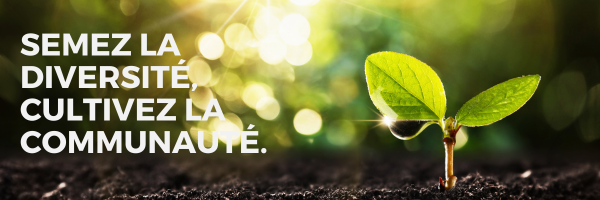
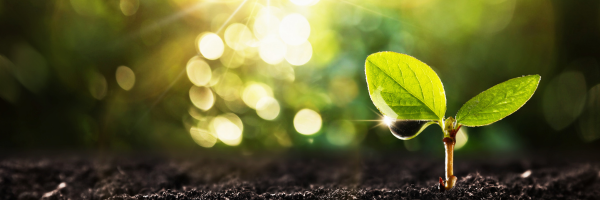
modif home

diff --git a/index.html b/index.html
@@ -13,9 +13,10 @@
 <body>
     
     <header>
+        <!-- NAVBAR -->
         <nav class="navbar navbar-expand-lg back-pale amatic border-bottom border-dark">
             <div class="container-fluid">
-            <a class="navbar-brand" href="#"><img src="/seeds_circle/public/assets/img/logoo.png" alt="logo"></a>
+            <a class="navbar-brand" href="#"><img class="w-50 h-50" src="/seeds_circle/public/assets/img/logoo-removebg.png" alt="logo"></a>
             <button class="navbar-toggler" type="button" data-bs-toggle="collapse" data-bs-target="#navbarNav" aria-controls="navbarNav" aria-expanded="false" aria-label="Toggle navigation">
                 <span class="navbar-toggler-icon"></span>
             </button>
@@ -41,21 +42,149 @@
         </nav>
     </header>
 
-    <main class="container-fluid p-0 m-0">
+    <main class="container-fluid p-0 m-0 back-dark">
+        <!-- BANNIERE -->
         <div class="row me-0">
-            <div class="col-12">
-                <img src="/seeds_circle/public/assets/img/Banner.png" alt="" class="img">
+            <div class="col-12" id="banner">
+                <div class="row text-light">
+                    <div class="col-7">
+                        <div class="montserrat-bold p-1 p-lg-5 col-lg-6">
+                            <h1>SEMEZ LA DIVERSITE, CULTIVEZ LA COMMUNAUTE</h1>
+                        </div>
+                    </div>
+                    <div class="col-5">
+                        <div class="d-flex h-100 align-items-end">
+                            <button class="btn shadow  mb-4 back-green rounded-3 amatic-bold">
+                                nous rejoindre
+                            </button>
+                        </div>
+                    </div>
+                </div>
             </div>
+        <!-- BOUTON VOIR LES PRODUITS     -->
             <div class="col-12 d-flex justify-content-center align-items-center back-pale ">
-                <button class="my-4 btn btn-lg back-green rounded-3 amatic-bold w-50 ">
+                <button class="my-4 btn shadow btn-lg back-green rounded-3 amatic-bold w-50 ">
                     Voir les produits
                 </button>
+            </div>
+        </div>
+        <!-- PLANTES VEDETTES -->
+        <div class="container-fluid">
+            <div class="row">
+                <div class="col-12 text-center">
+                    <h2 class="amatic-bold text-light">Plantes vedettes</h2>
+                </div>
+            </div>
+                <!-- LIGNE BLANCHE -->
+                <hr class="white-line">
+                <!-- LYS -->
+            <div class="row">
+                <div class="col-12 text-center">
+                    <h3 class="montserrat text-light">Lys</h3>
+                </div>
+                <div class="col-12 col-lg-7  text-center">
+                    <img src="./public/assets/img/Lys.jpg" class="rounded-4 img-fluid" id="lys"  alt="Lys">
+                </div>
+                <div class="col-12 col-lg-5 text-light text-center">
+                    <div class="row">
+                        <div class="col-6 col-lg-12 montserrat mt-2">
+                            <p>Top vendeur : michel</p>
+                            <p>Les utilisateurs recommandent !</p>
+                        </div>
+                        <div class="col-6 col-lg-12 amatic-bold mt-4 ">
+                            <button class="my-4 btn shadow back-green rounded-4 amatic-bold">
+                                VOIR LES ANNONCES
+                            </button>
+                        </div>
+                    </div>
+                </div>
+                <div class="col-12 text-center">
+                    <!-- LIGNE BLANCHE -->
+                    <hr class="white-line">
+                    <!-- GRAINES DE TOMATE -->
+                    <h3 class="montserrat text-light m-4">Graines de tomates</h3>
+                </div>
+                <div class="col-12 col-lg-5  text-light text-center">
+                    <div class="row ">
+                        <div class="col-6 col-lg-12 montserrat mt-2 mt-lg-5 pt-lg-5">
+                            <p>Top vendeur : michel</p>
+                            <p>Les utilisateurs recommandent !</p>
+                        </div>
+                        <div class="col-6 col-lg-12 amatic-bold mt-4 ">
+                            <button class="my-4 btn shadow back-green rounded-4 amatic-bold">
+                                VOIR LES ANNONCES
+                            </button>
+                        </div>
+                    </div>
+                </div>
+                <div class="col-12 col-lg-7  text-center">
+                    <img src="./public/assets/img/graines-tomates.png" class="rounded-4 img-fluid" id="lys"  alt="Lys">
+                </div>
+            </div>
+            <!-- LIGNE BLANCHE -->
+            <hr class="white-line">
+            <!-- QUI SOMMES NOUS -->
+            <div class="container-fluid">
+                <div class="row">
+                    <div class="col-12 text-center">
+                        <div class="back-green rounded-3">
+                            <div class="row">
+                                <h2 class="amatic-bold">Qui sommes nous ?</h2>
+                                <div class="col-12 col-lg-7">
+                                    <img src="./public/assets/img/gardener-woman.jpg" id="gardener" class="m-lg-3 img-fluid rounded-3 shadow" alt="femme dans un jardin">
+                                </div>
+                                <div class="col-12 col-lg-5">
+                                    <div class="row">
+                                        <div class="col-12 order-0 order-lg-1 p-5">
+                                            <p>Seeds Circle est une communauté passionnée de jardiniers et d'amoureux de la nature !
+                                                Notre association offre un espace convivial où les membres peuvent échanger et troquer une variété de graines,
+                                                plantes, arbustes et arbres. Que vous soyez un novice curieux ou un jardinier expérimenté, 
+                                                vous trouverez ici l'opportunité d'élargir votre collection végétale, de découvrir de nouvelles espèces et de
+                                                partager vos connaissances avec d'autres passionnés. Ensemble, cultivons la biodiversité et créons des jardins
+                                                florissants qui enchantent nos sens et préservent notre environnement.</p>
+                                        </div>
+                                        <div class="col-12 order-1 order-lg-0 p-4">
+                                            <img src="./public/assets/img/logoo.png" class="rounded-4" alt="logo">
+                                        </div>
+                                    </div>
+                                </div>
+                            </div>
+                        </div>                           
+                    </div>
+                </div>
+            </div>
+            <!-- TEMOIGNAGE ET REUSSITES -->
+                <div class="col-12 text-center">
+                    <h2 class="amatic-bold text-light pt-5">Temoignages et réussites</h2>
+                </div>
+                <hr class="white-line">
+            <div class="row text-light">
+                <div class="col-2 col-lg-6">
+                    <div>
+                        <img src="./public/assets/img/sophie.jpg" class="rounded-circle img-fluid" alt="sophie">
+                    </div>
+                    
+                </div>
+                <div class="col-10 col-lg-6 text-center">
+                    <div class="back-green rounded-3 p-5">
+                        <p>Je suis membre de cette association depuis plusieurs années maintenant,et je ne pourrais pas être plus satisfaite
+                            de l'expérience. Grâce aux échanges de graines et de plantes avec d'autres membres, j'ai pu diversifier mon jardin
+                            et découvrir des variétés que je n'aurais jamais eues autrement.</p>
+                        <p>Sophie M, Membre depuis 3 ans</p>
+                    </div>
+                </div>
+                <div class="col-2 col-lg-6">
+                    image de profil
+                </div>
+                <div class="col-10 col-lg-6 text-center">
+                    COMMENTAIRE
+                </div>
             </div>
         </div>
     </main>
     
     <footer>
-
+        
     </footer>
     <script src="lib\bootstrap\bootstrap.bundle.min.js"></script>
 </body>

diff --git a/public/assets/css/style.css b/public/assets/css/style.css
@@ -121,3 +121,29 @@
     background-size: cover;
 }
 /* END BODY */
+
+/* ################################### HOME ################################### */
+
+/* BANNIERE */
+
+#banner{
+    background-image: url(../img/banner.png);
+    background-position: center;
+    background-size: cover;
+    font-family: "Montserrat", sans-serif;
+    font-optical-sizing: auto;
+    font-weight: 1000;
+    font-style: normal;
+
+}
+
+
+
+
+.white-line{
+    border: none;
+        height: 3px; 
+        background-color: white; 
+        margin: 20px auto; 
+        width: 200px; 
+}
